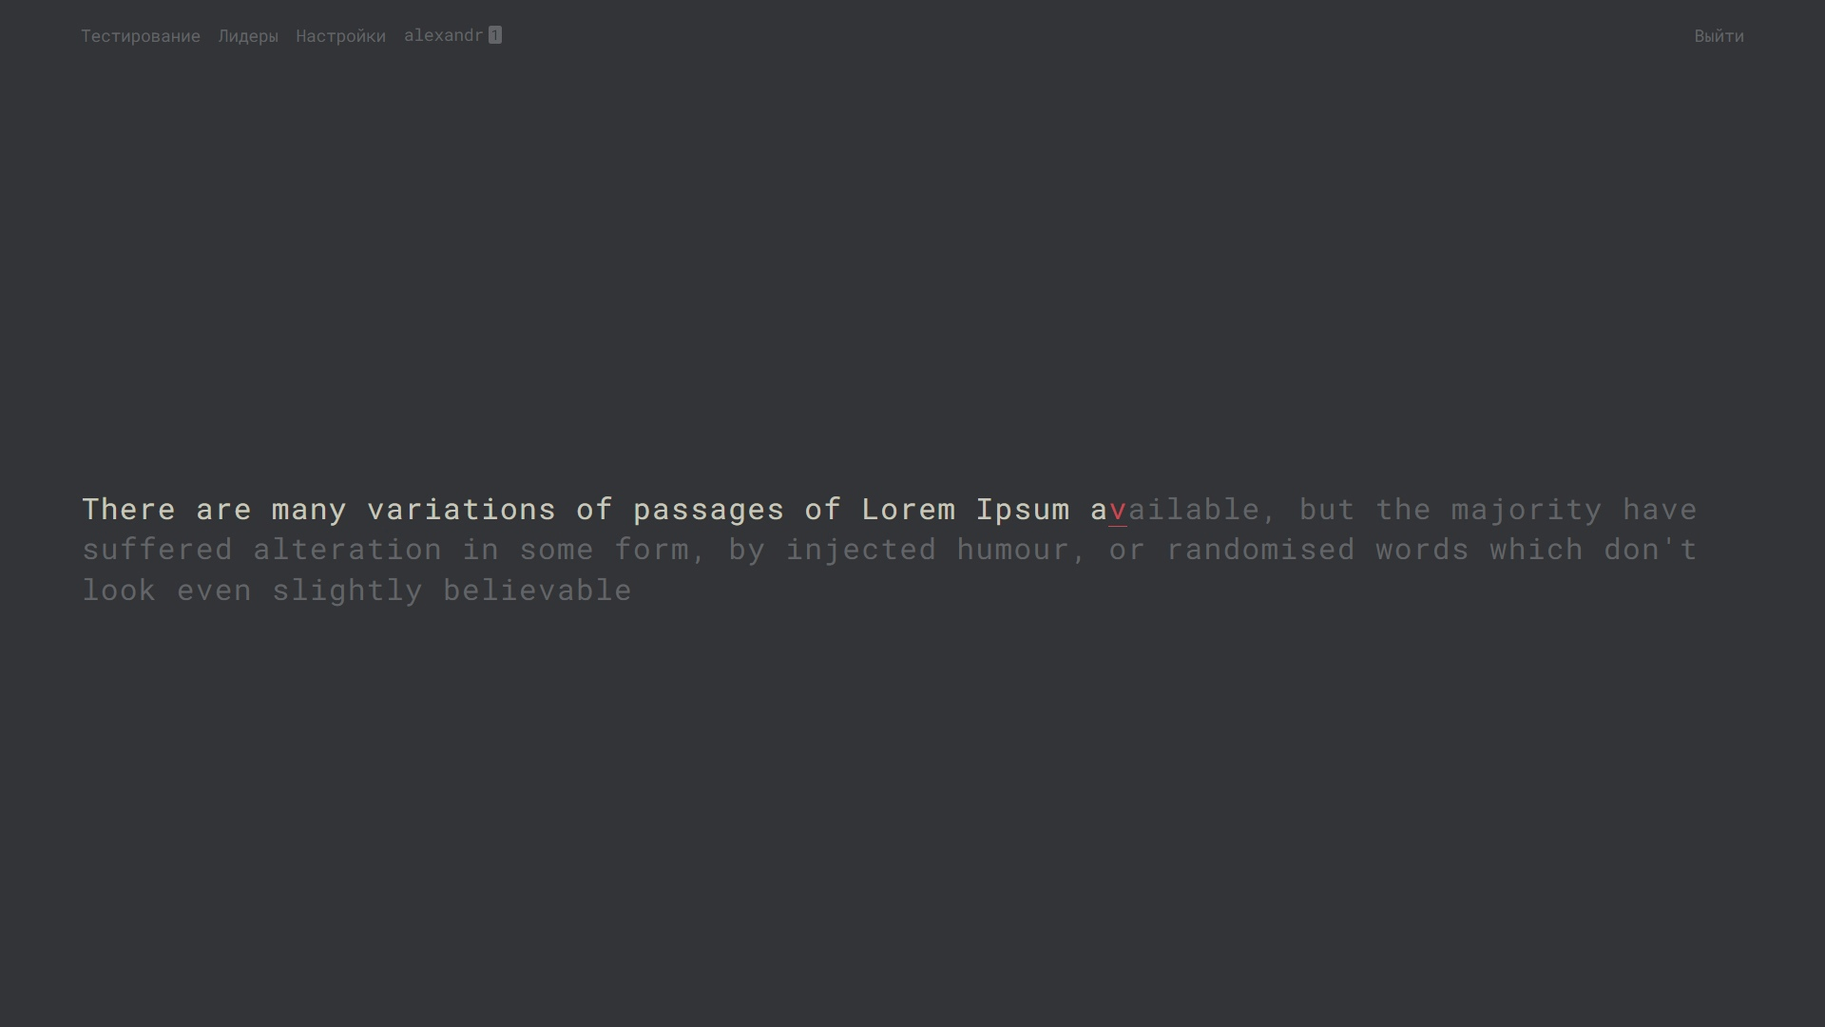
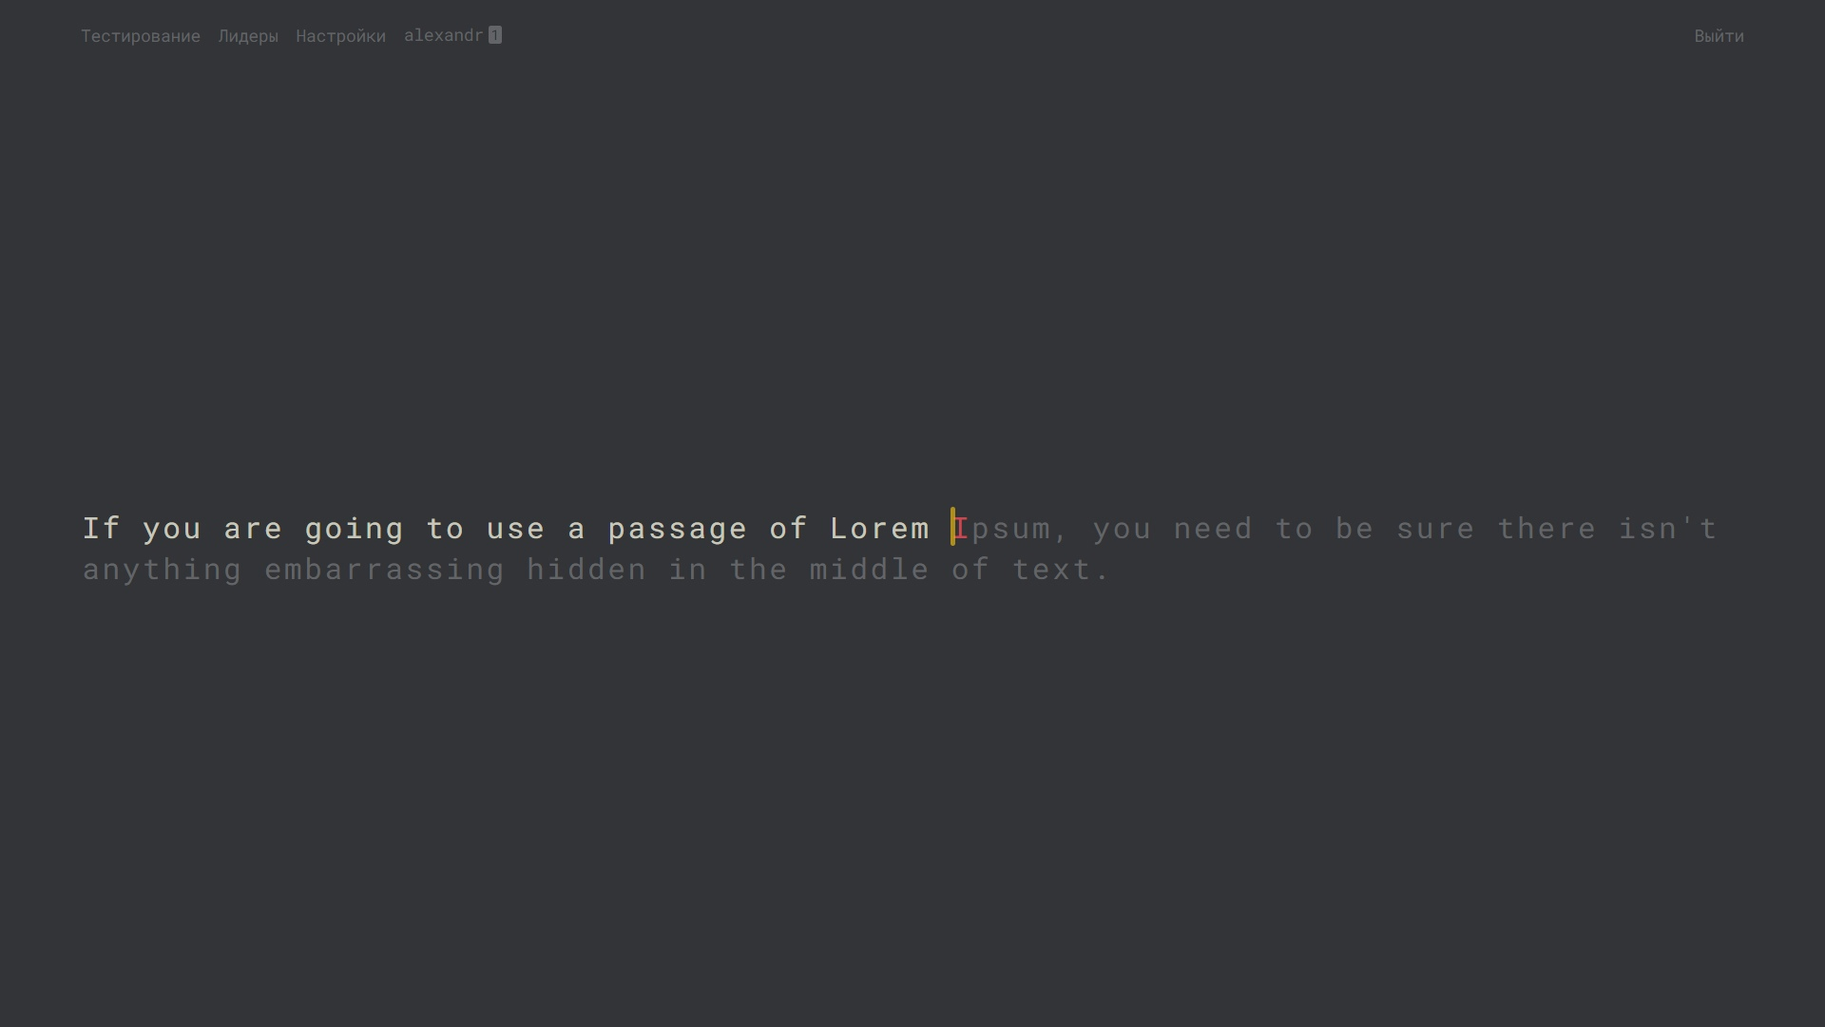
изменил индикатор активной буквы

Changed region(s): [[0.0312, 0.4889, 0.9375, 0.5806]]

diff --git a/static/css/main.css b/static/css/main.css
@@ -1,1 +1,1 @@
-@import url(https://fonts.googleapis.com/css2?family=Roboto+Mono:wght@300;400;500;600;700&display=swap);html{line-height:1.15;-webkit-text-size-adjust:100%}body{margin:0}main{display:block}h1{font-size:2em;margin:.67em 0}hr{-webkit-box-sizing:content-box;box-sizing:content-box;height:0;overflow:visible}pre{font-family:monospace,monospace;font-size:1em}a{background-color:transparent}abbr[title]{border-bottom:none;text-decoration:underline;-webkit-text-decoration:underline dotted;text-decoration:underline dotted}b,strong{font-weight:bolder}code,kbd,samp{font-family:monospace,monospace;font-size:1em}small{font-size:80%}sub,sup{font-size:75%;line-height:0;position:relative;vertical-align:baseline}sub{bottom:-.25em}sup{top:-.5em}img{border-style:none}button,input,optgroup,select,textarea{font-family:inherit;font-size:100%;line-height:1.15;margin:0}button,input{overflow:visible}button,select{text-transform:none}[type=button],[type=reset],[type=submit],button{-webkit-appearance:button}[type=button]::-moz-focus-inner,[type=reset]::-moz-focus-inner,[type=submit]::-moz-focus-inner,button::-moz-focus-inner{border-style:none;padding:0}[type=button]:-moz-focusring,[type=reset]:-moz-focusring,[type=submit]:-moz-focusring,button:-moz-focusring{outline:1px dotted ButtonText}fieldset{padding:.35em .75em .625em}legend{-webkit-box-sizing:border-box;box-sizing:border-box;color:inherit;display:table;max-width:100%;padding:0;white-space:normal}progress{vertical-align:baseline}textarea{overflow:auto}[type=checkbox],[type=radio]{-webkit-box-sizing:border-box;box-sizing:border-box;padding:0}[type=number]::-webkit-inner-spin-button,[type=number]::-webkit-outer-spin-button{height:auto}[type=search]{-webkit-appearance:textfield;outline-offset:-2px}[type=search]::-webkit-search-decoration{-webkit-appearance:none}::-webkit-file-upload-button{-webkit-appearance:button;font:inherit}details{display:block}summary{display:list-item}template{display:none}[hidden]{display:none}.auth__block-title,.notification__title,body{font-weight:400;font-family:"Roboto Mono",sans-serif}*,::after,::before{padding:0;margin:0;-webkit-box-sizing:border-box;box-sizing:border-box;list-style-type:none;resize:none;outline:0;text-decoration:none}body{background:#323437;color:#c8c7bc}img{max-width:100%;height:auto}button[disabled],input[type=button][disabled],input[type=submit][disabled]{opacity:.8;cursor:not-allowed;pointer-events:none}#__layout,#__layout>div,#__nuxt{min-height:100vh;height:100%}h1,h2,h3,h4,h5,h6{margin:0}.container{max-width:1420px;height:100%;padding:0 10px;margin:0 auto;min-height:inherit}.page__inner{min-height:inherit}.auth{min-height:inherit}.auth__inner{min-height:inherit;max-width:1000px;margin:0 auto;display:-webkit-box;display:-ms-flexbox;display:flex;-webkit-box-pack:justify;-ms-flex-pack:justify;justify-content:space-between;-webkit-box-align:center;-ms-flex-align:center;align-items:center}.auth__block{display:-webkit-box;display:-ms-flexbox;display:flex;-webkit-box-orient:vertical;-webkit-box-direction:normal;-ms-flex-direction:column;flex-direction:column}.auth__block:not(:last-child){margin-right:15px}.auth__block-title{padding-bottom:10px;text-transform:lowercase}.form{display:-webkit-box;display:-ms-flexbox;display:flex;-webkit-box-orient:vertical;-webkit-box-direction:normal;-ms-flex-direction:column;flex-direction:column}.form__field:not(:last-child){margin-bottom:10px}.form__label{width:100%;position:relative}.form__label::after{content:"";position:absolute;width:8px;height:8px;border-radius:8px;top:0;bottom:0;margin:auto 0;right:15px;background:#e2b714;opacity:0;-webkit-transition:background,opacity,.3s;-o-transition:background,opacity,.3s;transition:background,opacity,.3s}.form__input{width:240px;border:none;background:#2c2e31;caret-color:#e2b714;color:#626467;padding:8px 35px 8px 8px;border-radius:8px}.form__input:focus{color:#c8c7bc}.form__submit-block{margin-top:10px;display:-webkit-box;display:-ms-flexbox;display:flex;-webkit-box-pack:center;-ms-flex-pack:center;justify-content:center;-webkit-box-align:center;-ms-flex-align:center;align-items:center}.form__submit{cursor:pointer;background:#2c2e31;padding:8px;color:#c8c7bc;border:none;border-radius:8px;-webkit-transition:color,background,.2s;-o-transition:color,background,.2s;transition:color,background,.2s}.form__submit:hover{color:#2c2e31;background:#c8c7bc}.invalid-input::after{background:#ca4754}.show::after{opacity:1}.notifications{position:fixed;top:0;right:0;z-index:9999999;padding:10px}.notification{border-radius:8px;padding:15px;width:380px}.notification__title{font-size:15px;color:#323437;padding-bottom:5px}.notification__desc{color:#2c2e31;font-size:17px}.notification--error{background:#ca4754}.notification--warning{background:#e2b714}.notification--success{background:#40cc7d}.header{margin-bottom:15px;padding:20px 0}.header__list{display:-webkit-box;display:-ms-flexbox;display:flex;-webkit-box-align:center;-ms-flex-align:center;align-items:center}.header__list-item:not(:last-child){margin-right:15px}.header__list-link{color:#626467;-webkit-transition:color .3s;-o-transition:color .3s;transition:color .3s;font-size:14px}.header__list-link:hover{color:#c8c7bc}.header__list-signout{margin-left:auto}.header__list-user{display:-webkit-box;display:-ms-flexbox;display:flex;-webkit-box-align:center;-ms-flex-align:center;align-items:center}.header__list-user-level{padding:1px 2px;display:inline-block;border-radius:2px;background:#626467;color:#323437;font-size:12px;margin-left:4px}.testing{height:90vh}.testing__inner{height:100%;display:-webkit-box;display:-ms-flexbox;display:flex;-webkit-box-orient:vertical;-webkit-box-direction:normal;-ms-flex-direction:column;flex-direction:column;-webkit-box-pack:center;-ms-flex-pack:center;justify-content:center;position:relative}.testing-focus{position:absolute;width:100%;height:100%;z-index:9999;display:-webkit-box;display:-ms-flexbox;display:flex;-webkit-box-pack:center;-ms-flex-pack:center;justify-content:center;-webkit-box-align:center;-ms-flex-align:center;align-items:center;opacity:1;-webkit-transition:opacity .3s;-o-transition:opacity .3s;transition:opacity .3s}.testing-focus--hide{opacity:0}.testing-focus__inner{display:-webkit-box;display:-ms-flexbox;display:flex;-webkit-box-align:center;-ms-flex-align:center;align-items:center}.testing-focus__icon{fill:#c8c7bc;margin-right:10px;width:40px}.testing__text{line-height:30px;width:100%;-webkit-transition:opacity,.3s,-webkit-filter;transition:opacity,.3s,-webkit-filter;-o-transition:opacity,filter,.3s;transition:opacity,filter,.3s;transition:opacity,filter,.3s,-webkit-filter;-webkit-user-select:none;-moz-user-select:none;-ms-user-select:none;user-select:none}.testing__text--disabled{opacity:.5;-webkit-filter:blur(3px);filter:blur(3px)}.testing__letter{font-size:25px;color:#626467;-webkit-transition:color .3s;-o-transition:color .3s;transition:color .3s;padding:.5px}.testing__letter--active{position:relative}.testing__letter--active::after{content:"";position:absolute;height:1px;border-radius:5px;background:#e2b714;left:0;bottom:0;right:0;margin:0 auto;-webkit-transition:background .3s;-o-transition:background .3s;transition:background .3s;-webkit-animation:change-width .8s infinite alternate;animation:change-width .8s infinite alternate}.testing__letter--complete{color:#c8c7bc}.testing__letter--complete::after{background:#c8c7bc}.testing__letter--failure{color:#ca4754}.testing__letter--failure::after{background:#ca4754}@-webkit-keyframes change-width{0%{width:50%}100%{width:100%}}@keyframes change-width{0%{width:50%}100%{width:100%}}
+@import url(https://fonts.googleapis.com/css2?family=Roboto+Mono:wght@300;400;500;600;700&display=swap);html{line-height:1.15;-webkit-text-size-adjust:100%}body{margin:0}main{display:block}h1{font-size:2em;margin:.67em 0}hr{-webkit-box-sizing:content-box;box-sizing:content-box;height:0;overflow:visible}pre{font-family:monospace,monospace;font-size:1em}a{background-color:transparent}abbr[title]{border-bottom:none;text-decoration:underline;-webkit-text-decoration:underline dotted;text-decoration:underline dotted}b,strong{font-weight:bolder}code,kbd,samp{font-family:monospace,monospace;font-size:1em}small{font-size:80%}sub,sup{font-size:75%;line-height:0;position:relative;vertical-align:baseline}sub{bottom:-.25em}sup{top:-.5em}img{border-style:none}button,input,optgroup,select,textarea{font-family:inherit;font-size:100%;line-height:1.15;margin:0}button,input{overflow:visible}button,select{text-transform:none}[type=button],[type=reset],[type=submit],button{-webkit-appearance:button}[type=button]::-moz-focus-inner,[type=reset]::-moz-focus-inner,[type=submit]::-moz-focus-inner,button::-moz-focus-inner{border-style:none;padding:0}[type=button]:-moz-focusring,[type=reset]:-moz-focusring,[type=submit]:-moz-focusring,button:-moz-focusring{outline:1px dotted ButtonText}fieldset{padding:.35em .75em .625em}legend{-webkit-box-sizing:border-box;box-sizing:border-box;color:inherit;display:table;max-width:100%;padding:0;white-space:normal}progress{vertical-align:baseline}textarea{overflow:auto}[type=checkbox],[type=radio]{-webkit-box-sizing:border-box;box-sizing:border-box;padding:0}[type=number]::-webkit-inner-spin-button,[type=number]::-webkit-outer-spin-button{height:auto}[type=search]{-webkit-appearance:textfield;outline-offset:-2px}[type=search]::-webkit-search-decoration{-webkit-appearance:none}::-webkit-file-upload-button{-webkit-appearance:button;font:inherit}details{display:block}summary{display:list-item}template{display:none}[hidden]{display:none}.auth__block-title,.notification__title,body{font-weight:400;font-family:"Roboto Mono",sans-serif}*,::after,::before{padding:0;margin:0;-webkit-box-sizing:border-box;box-sizing:border-box;list-style-type:none;resize:none;outline:0;text-decoration:none}body{background:#323437;color:#c8c7bc}img{max-width:100%;height:auto}button[disabled],input[type=button][disabled],input[type=submit][disabled]{opacity:.8;cursor:not-allowed;pointer-events:none}#__layout,#__layout>div,#__nuxt{min-height:100vh;height:100%}h1,h2,h3,h4,h5,h6{margin:0}.container{max-width:1420px;height:100%;padding:0 10px;margin:0 auto;min-height:inherit}.page__inner{min-height:inherit}.auth{min-height:inherit}.auth__inner{min-height:inherit;max-width:1000px;margin:0 auto;display:-webkit-box;display:-ms-flexbox;display:flex;-webkit-box-pack:justify;-ms-flex-pack:justify;justify-content:space-between;-webkit-box-align:center;-ms-flex-align:center;align-items:center}.auth__block{display:-webkit-box;display:-ms-flexbox;display:flex;-webkit-box-orient:vertical;-webkit-box-direction:normal;-ms-flex-direction:column;flex-direction:column}.auth__block:not(:last-child){margin-right:15px}.auth__block-title{padding-bottom:10px;text-transform:lowercase}.form{display:-webkit-box;display:-ms-flexbox;display:flex;-webkit-box-orient:vertical;-webkit-box-direction:normal;-ms-flex-direction:column;flex-direction:column}.form__field:not(:last-child){margin-bottom:10px}.form__label{width:100%;position:relative}.form__label::after{content:"";position:absolute;width:8px;height:8px;border-radius:8px;top:0;bottom:0;margin:auto 0;right:15px;background:#e2b714;opacity:0;-webkit-transition:background,opacity,.3s;-o-transition:background,opacity,.3s;transition:background,opacity,.3s}.form__input{width:240px;border:none;background:#2c2e31;caret-color:#e2b714;color:#626467;padding:8px 35px 8px 8px;border-radius:8px}.form__input:focus{color:#c8c7bc}.form__submit-block{margin-top:10px;display:-webkit-box;display:-ms-flexbox;display:flex;-webkit-box-pack:center;-ms-flex-pack:center;justify-content:center;-webkit-box-align:center;-ms-flex-align:center;align-items:center}.form__submit{cursor:pointer;background:#2c2e31;padding:8px;color:#c8c7bc;border:none;border-radius:8px;-webkit-transition:color,background,.2s;-o-transition:color,background,.2s;transition:color,background,.2s}.form__submit:hover{color:#2c2e31;background:#c8c7bc}.invalid-input::after{background:#ca4754}.show::after{opacity:1}.notifications{position:fixed;top:0;right:0;z-index:9999999;padding:10px}.notification{border-radius:8px;padding:15px;width:380px}.notification__title{font-size:15px;color:#323437;padding-bottom:5px}.notification__desc{color:#2c2e31;font-size:17px}.notification--error{background:#ca4754}.notification--warning{background:#e2b714}.notification--success{background:#40cc7d}.header{margin-bottom:15px;padding:20px 0}.header__list{display:-webkit-box;display:-ms-flexbox;display:flex;-webkit-box-align:center;-ms-flex-align:center;align-items:center}.header__list-item:not(:last-child){margin-right:15px}.header__list-link{color:#626467;-webkit-transition:color .3s;-o-transition:color .3s;transition:color .3s;font-size:14px}.header__list-link:hover{color:#c8c7bc}.header__list-signout{margin-left:auto}.header__list-user{display:-webkit-box;display:-ms-flexbox;display:flex;-webkit-box-align:center;-ms-flex-align:center;align-items:center}.header__list-user-level{padding:1px 2px;display:inline-block;border-radius:2px;background:#626467;color:#323437;font-size:12px;margin-left:4px}.testing{height:90vh;overflow:hidden}.testing__inner{height:100%;display:-webkit-box;display:-ms-flexbox;display:flex;-webkit-box-orient:vertical;-webkit-box-direction:normal;-ms-flex-direction:column;flex-direction:column;-webkit-box-pack:center;-ms-flex-pack:center;justify-content:center;position:relative}.testing-focus{position:absolute;width:100%;height:100%;z-index:9999;display:-webkit-box;display:-ms-flexbox;display:flex;-webkit-box-pack:center;-ms-flex-pack:center;justify-content:center;-webkit-box-align:center;-ms-flex-align:center;align-items:center;opacity:1;-webkit-transition:opacity .3s;-o-transition:opacity .3s;transition:opacity .3s}.testing-focus--hide{opacity:0}.testing-focus__inner{display:-webkit-box;display:-ms-flexbox;display:flex;-webkit-box-align:center;-ms-flex-align:center;align-items:center}.testing-focus__icon{fill:#c8c7bc;margin-right:10px;width:40px}.testing__text{line-height:30px;width:100%;-webkit-transition:opacity,.3s,-webkit-filter;transition:opacity,.3s,-webkit-filter;-o-transition:opacity,filter,.3s;transition:opacity,filter,.3s;transition:opacity,filter,.3s,-webkit-filter;-webkit-user-select:none;-moz-user-select:none;-ms-user-select:none;user-select:none;position:relative}.testing__text--disabled{opacity:.5;-webkit-filter:blur(3px);filter:blur(3px)}.testing__letter{font-size:25px;color:#626467;-webkit-transition:color .3s;-o-transition:color .3s;transition:color .3s;padding:0 1px}.testing__letter--complete{color:#c8c7bc}.testing__letter--failure{color:#ca4754}.caret{position:absolute;z-index:99;width:4px;border-radius:4px;background:#e2b714;-webkit-animation:hidden .5s infinite alternate ease-out;animation:hidden .5s infinite alternate ease-out;-webkit-transition:left,height,top,.1s;-o-transition:left,height,top,.1s;transition:left,height,top,.1s}@-webkit-keyframes hidden{0%{opacity:1}100%{opacity:0}}@keyframes hidden{0%{opacity:1}100%{opacity:0}}

diff --git a/pages/index.vue b/pages/index.vue
@@ -6,6 +6,8 @@
           v-if="text && text.length"
           :text="text"
           :start="start"
+          :res="res"
+          :index-active-letter="indexActiveLetter"
           @startWriting="start = true"
         />
       </div>
@@ -25,25 +27,49 @@
         const token = store.getters["auth/getToken"];
         const { ok, text: textData, } = await store.dispatch("text/getRandom", token);
         const text = ok ? textData.body.split("").map((l, i) => ({ letter: l, active: i === 0, complete: false, failure: false, })) : [];
+        const totalWords = ok ? textData.body.split(" ").length : 0;
 
-        return { text: ok ? text : "", };
+        return {
+          text,
+          totalWords,
+        };
       } catch (err) {
         throw err;
       }
     },
     data: () => ({
       start: false,
+      res: 0,
+      timer: null,
+      sec: 0,
       invalidKeys: [
         "Escape", "Tab", "Alt", "Control", "Enter",
         "Shift", "Backspace", "NumLock", "Delete", "Insert",
         "CapsLock", "ArrowLeft", "ArrowRight", "ArrowUp", "ArrowDown",
-        "OS", "Meta"
+        "OS", "Meta", "F1", "F2", "F3", "F4", "F5", "F6",
+        "F7", "F8", "F9", "F10", "F11", "F12", "End",
+        "PageUp", "PageDown", "ScrollLock", "Pause", "Insert",
+        "Home"
       ],
+      indexActiveLetter: 0,
     }),
     head: { title: "Тестирование", },
     watch: {
       start(val) {
-        window[val ? "addEventListener" : "removeEventListener"]("keydown", this.keydownHandler);
+        if (val) {
+          this.timer = setInterval(() => {
+            this.sec += 1;
+          }, 1000);
+
+          window.addEventListener("keydown", this.keydownHandler);
+        } else {
+          window.removeEventListener("keydown", this.keydownHandler);
+
+          clearInterval(this.timer);
+
+          this.res = Math.floor(((this.totalWords || 1) / (this.sec || 1)) * 60);
+          this.sec = 0;
+        }
       },
     },
     methods: {
@@ -62,9 +88,9 @@
       },
       keydownHandler(e) {
         e.preventDefault();
-
+        
         const key = e.key;
-
+        
         if (!this.invalidKeys.includes(key)) {
           const indexActiveLetter = this.text.findIndex(({ active, }) => active);
           const activeLetter = this.text[indexActiveLetter];
@@ -76,6 +102,7 @@
             });
 
             if (indexActiveLetter + 1 >= this.text.length) {
+              this.indexActiveLetter = 0;
               this.start = false;
               this.text = this.text.map((item, index) => {
                 item.active = index === 0;
@@ -83,6 +110,8 @@
 
                 return item;
               });
+            } else {
+              this.indexActiveLetter = indexActiveLetter + 1;
             }
           } else {
             this.changeLetter({

diff --git a/components/vTesting.vue b/components/vTesting.vue
@@ -10,26 +10,33 @@
       >
         <div class="testing-focus__inner">
           <vCursorIcon :classes="['testing-focus__icon']" />
-          <span class="testing-focus__text">Нажмите, чтобы начать</span>
+          <span class="testing-focus__text">Нажмите, чтобы начать. <bold v-if="res">Результат: {{ res }} с/м</bold></span>
         </div>
       </div>
-      <p
+      <div
         class="testing__text"
-        :class="{
-          'testing__text--disabled': !start
-        }"
+        :class="{ 'testing__text--disabled': !start }"
       >
+        <div
+          v-if="start"
+          class="caret"
+          :style="{
+            'left': `${caretData.x}px`,
+            'top': `${caretData.y}px`,
+            'height': `${caretData.height}px`,
+          }"
+        ></div>
         <span
           v-for="(lData, index) in text"
           :key="index"
+          ref="letter"
           class="testing__letter"
           :class="{
             'testing__letter--complete': lData.complete,
-            'testing__letter--failure': lData.failure,
-            'testing__letter--active': lData.active,
+            'testing__letter--failure': lData.failure
           }"
         >{{ lData.letter }}</span>
-      </p>
+      </div>
     </div>
   </div>
 </template>
@@ -48,6 +55,60 @@
       start: {
         type: Boolean,
         required: true,
+      },
+      res: {
+        type: Number,
+        required: true,
+      },
+      indexActiveLetter: {
+        type: Number,
+        required: true,
+      },
+    },
+    data: () => ({
+      caretData: {
+        x: 0,
+        y: 0,
+        height: 0,
+      },
+    }),
+    computed: {
+      getActiveLetter() {
+        return this.$refs.letter[this.indexActiveLetter];
+      },
+    },
+    watch: {
+      start(val) {
+        if (val) {
+          this.moveCaret();
+
+          window.addEventListener("resize", this.moveCaret);
+        } else {
+          this.clearCaretData();
+
+          window.removeEventListener("resize", this.moveCaret);
+        }
+      },
+      indexActiveLetter() {
+        this.moveCaret();
+      },
+    },
+    methods: {
+      clearCaretData() {
+        this.caretData = {
+          x: 0,
+          y: 0,
+          height: 0,
+        };
+      },
+      moveCaret() {
+        const { offsetLeft, offsetTop, offsetHeight, } = this.getActiveLetter;
+
+        this.caretData = {
+          x: offsetLeft,
+          y: offsetTop,
+          height: offsetHeight,
+        };
       },
     },
   };

diff --git a/static/scss/index.scss b/static/scss/index.scss
@@ -198,6 +198,7 @@
 
 .testing {
   height: 90vh;
+  overflow: hidden;
 
   &__inner {
     height: 100%;
@@ -239,6 +240,7 @@
     width: 100%;
     transition: opacity, filter, .3s;
     user-select: none;
+    position: relative;
 
     &--disabled {
       opacity: .5;
@@ -250,50 +252,34 @@
     font-size: 25px;
     color: $grey;
     transition: color .3s;
-    padding: .5px;
-
-    &--active {
-      position: relative;
-
-      &::after {
-        content: "";
-        position: absolute;
-        height: 1px;
-        border-radius: 5px;
-        background: $yellow;
-        left: 0;
-        bottom: 0;
-        right: 0;
-        margin: 0 auto;
-        transition: background .3s;
-        animation: change-width .8s infinite alternate;
-      }
-    }
+    padding: 0 1px;
 
     &--complete {
       color: $lightGrey;
-
-      &::after {
-        background: $lightGrey;
-      }
     }
 
     &--failure {
       color: $red;
-
-      &::after {
-        background: $red;
-      }
     }
   }
 }
 
-@keyframes change-width {
+.caret {
+  position: absolute;
+  z-index: 99;
+  width: 4px;
+  border-radius: 4px;
+  background: $yellow;
+  animation: hidden .5s infinite alternate ease-out;
+  transition: left, height, top, .1s;
+}
+
+@keyframes hidden {
   0% {
-    width: 50%;
+    opacity: 1;
   }
 
   100% {
-    width: 100%;
+    opacity: 0;
   }
 }

diff --git a/index.html b/index.html
@@ -1,0 +1,26 @@
+<!DOCTYPE html>
+<html lang="en">
+<head>
+  <meta charset="UTF-8">
+  <meta http-equiv="X-UA-Compatible" content="IE=edge">
+  <meta name="viewport" content="width=device-width, initial-scale=1.0">
+  <title>Document</title>
+</head>
+<body>
+  <p
+  class="testing__text"
+      :class="{ 'testing__text--disabled': !start }"
+    >
+    <div class="caret"></div>
+    <span
+      v-for="(lData, index) in text"
+      :key="index"
+      class="testing__letter"
+      :class="{
+        'testing__letter--complete': lData.complete,
+        'testing__letter--failure': lData.failure
+      }"
+    >{{ lData.letter }}</span>
+    </p>
+</body>
+</html>
